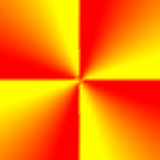
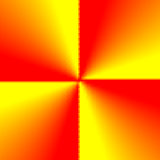
Fix bug in sweep gradient generation

Changed region(s): [[0.0, 0.0, 1.0, 1.0]]

diff --git a/crates/krilla/src/object/shading_function.rs b/crates/krilla/src/object/shading_function.rs
@@ -58,6 +58,10 @@ impl Hash for RadialAxialGradient {
 pub(crate) struct PostScriptGradient {
     pub(crate) min: f32,
     pub(crate) max: f32,
+    // Only used for sweep gradient
+    pub(crate) cx: f32,
+    // Only used for sweep gradient
+    pub(crate) cy: f32,
     pub(crate) stops: Vec<Stop>,
     pub(crate) domain: RectWrapper,
     pub(crate) spread_method: SpreadMethod,
@@ -155,6 +159,8 @@ impl GradientPropertiesExt for LinearGradient {
                 GradientProperties::PostScriptGradient(PostScriptGradient {
                     min,
                     max,
+                    cx: 0.0,
+                    cy: 0.0,
                     stops: self.stops.0.into_iter().collect::<Vec<Stop>>(),
                     domain: RectWrapper(get_expanded_bbox(bbox, self.transform.pre_concat(ts))),
                     spread_method: self.spread_method,
@@ -173,13 +179,14 @@ impl GradientPropertiesExt for SweepGradient {
         let max = self.end_angle;
 
         let transform = self
-            .transform
-            .post_concat(Transform::from_translate(self.cx, self.cy));
+            .transform;
 
         (
             GradientProperties::PostScriptGradient(PostScriptGradient {
                 min,
                 max,
+                cx: self.cx,
+                cy: self.cy,
                 stops: self.stops.0.into_iter().collect::<Vec<Stop>>(),
                 domain: RectWrapper(get_expanded_bbox(bbox, transform)),
                 spread_method: self.spread_method,
@@ -442,8 +449,14 @@ fn serialize_sweep_postscript(
     let mut code = vec![];
     code.extend([
         // Stack: x y
+        // Shift by cy, so gradient actually starts from the center
+        Real(properties.cy),
+        Sub,
         Exch,
         // y x
+        // Shift by cx, so gradient actually starts from the center
+        Real(properties.cx),
+        Sub,
         // Make sure x is never 0.
         Dup,
         Dup,

diff --git a/crates/krilla/src/surface.rs b/crates/krilla/src/surface.rs
@@ -355,6 +355,11 @@ impl<'a> Surface<'a> {
         );
     }
 
+    /// Return the current transformation matrix.
+    pub fn ctm(&self) -> Transform {
+        Self::cur_builder(&self.root_builder, &self.sub_builders).cur_transform()
+    }
+
     /// Concatenate a new transform to the current transformation matrix.
     pub fn push_transform(&mut self, transform: &Transform) {
         self.push_instructions.push(PushInstruction::Transform);
